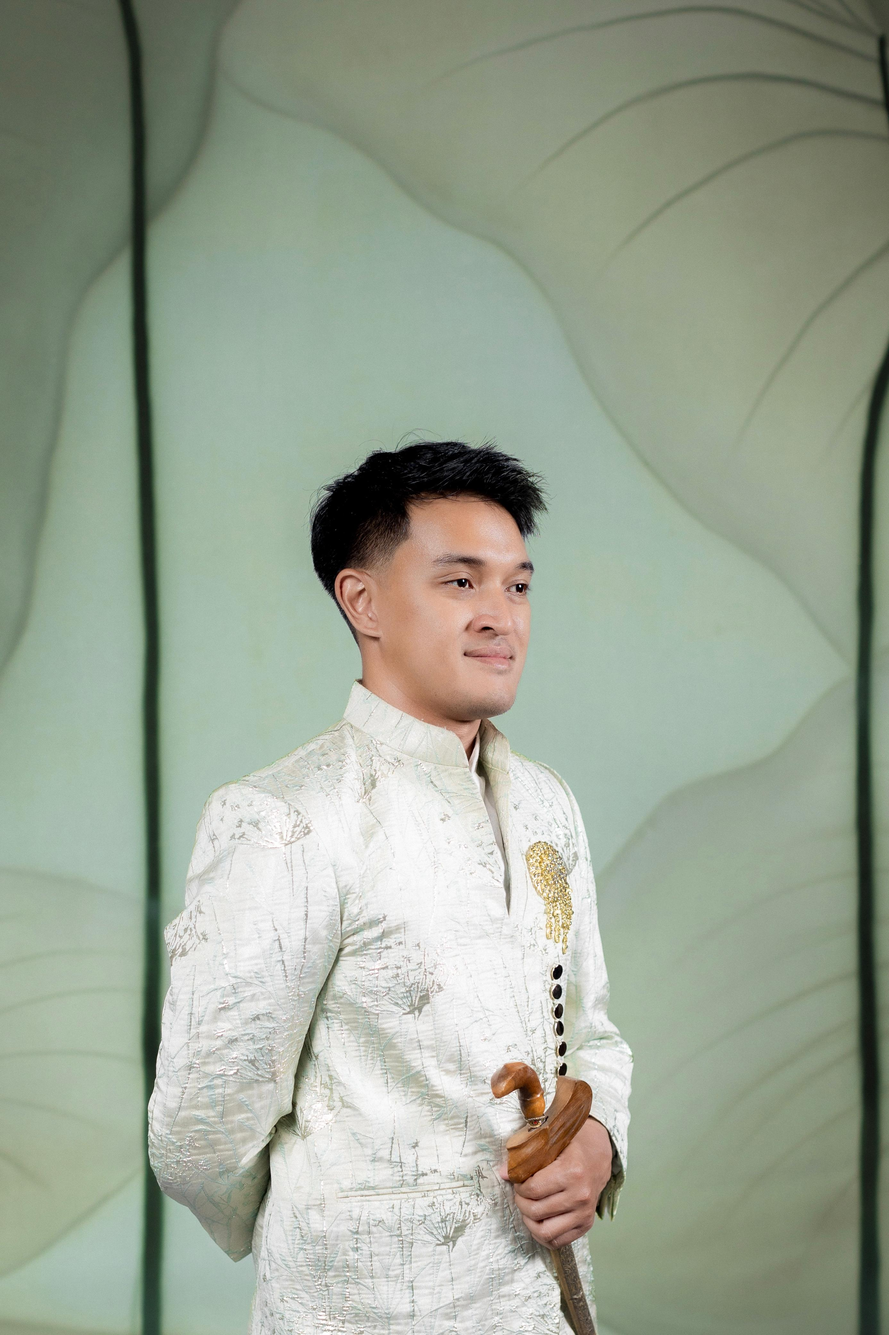
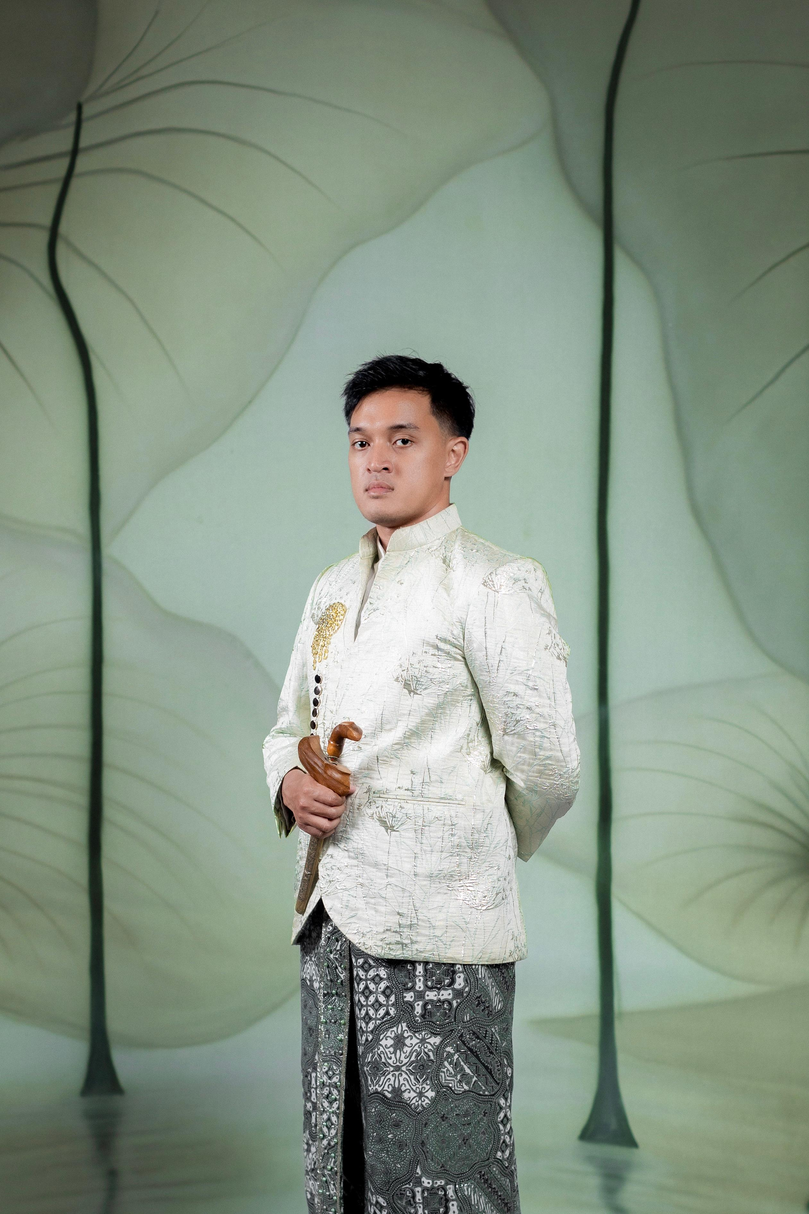
update photo

diff --git a/app/Akad.tsx b/app/Akad.tsx
@@ -42,7 +42,7 @@ const HeroSection: React.FC<{ onOpen: () => void; nama?: string }> = ({ onOpen, 
       >
         {nama ?? "Tamu Undangan"}
       </p>
-      
+
       <button
         onClick={onOpen}
         className="mt-4 flex items-center gap-2 px-8 py-3 
@@ -102,7 +102,7 @@ const CoupleSection: React.FC = () => (
             <img
               src="/images/ojan.jpeg"
               alt=""
-              className="w-full h-full object-cover rounded-t-full"
+              className="w-full h-full object-cover scale-150 rounded-t-full"
             />
           </div>
 
@@ -138,7 +138,7 @@ const CoupleSection: React.FC = () => (
             <img
               src="/images/ratih.jpeg"
               alt=""
-              className="w-full h-full object-cover rounded-t-full"
+              className="w-full h-full object-cover scale-150 rounded-t-full"
             />
           </div>
           {/* Name Overlay */}
